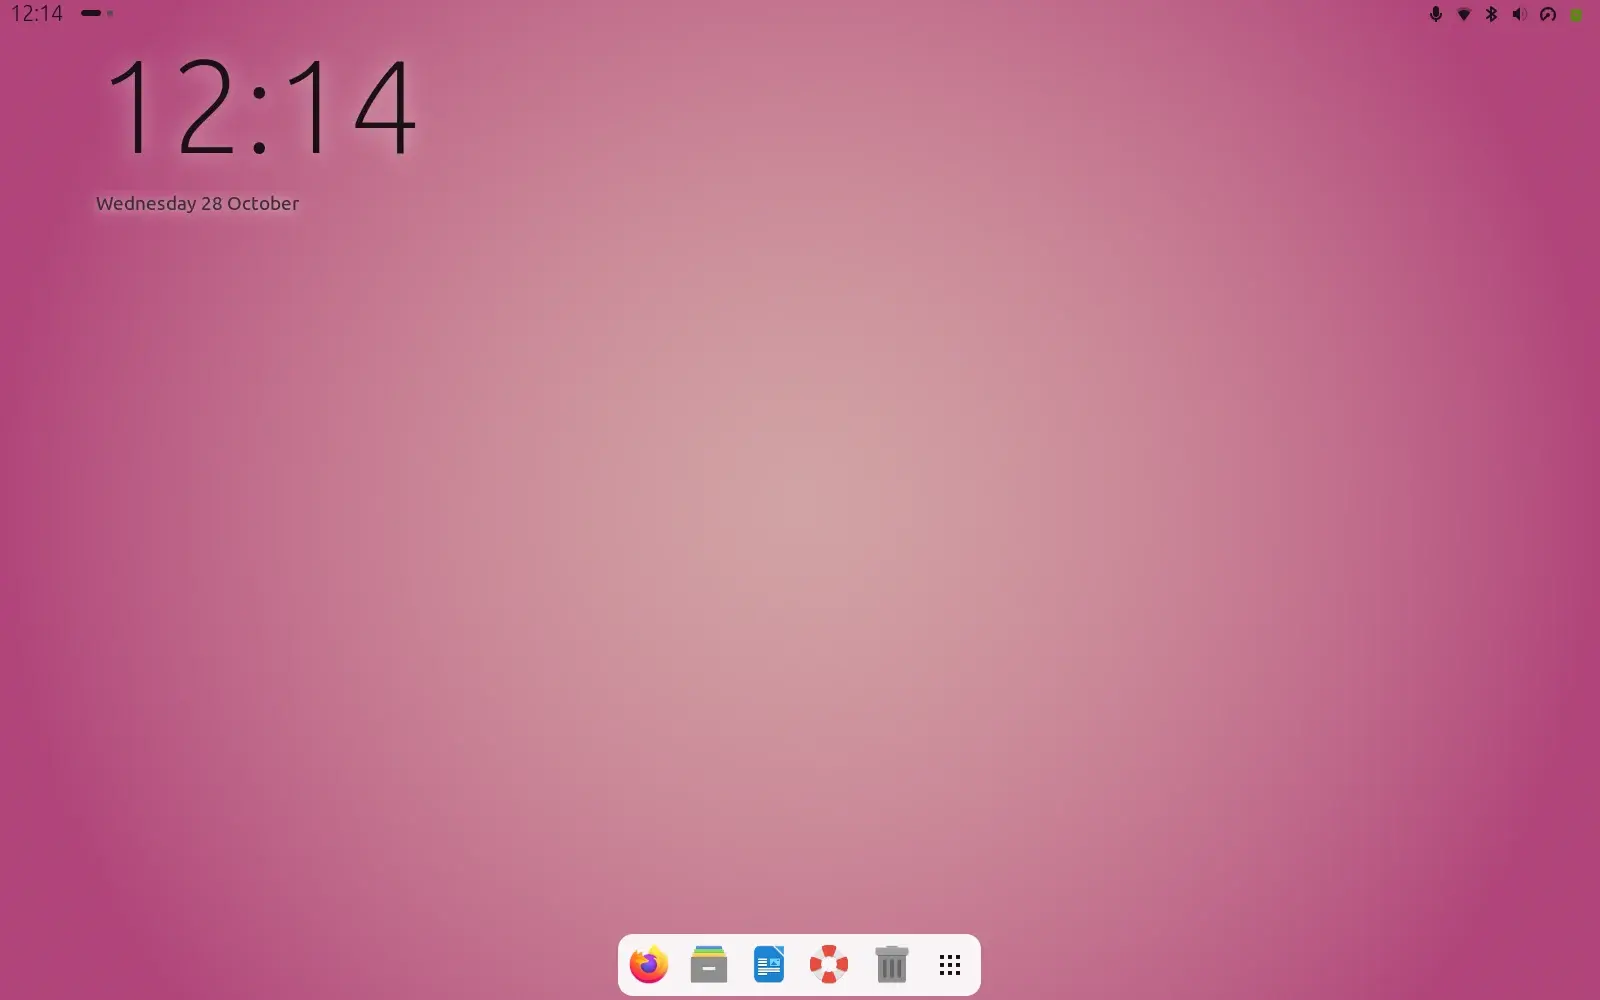
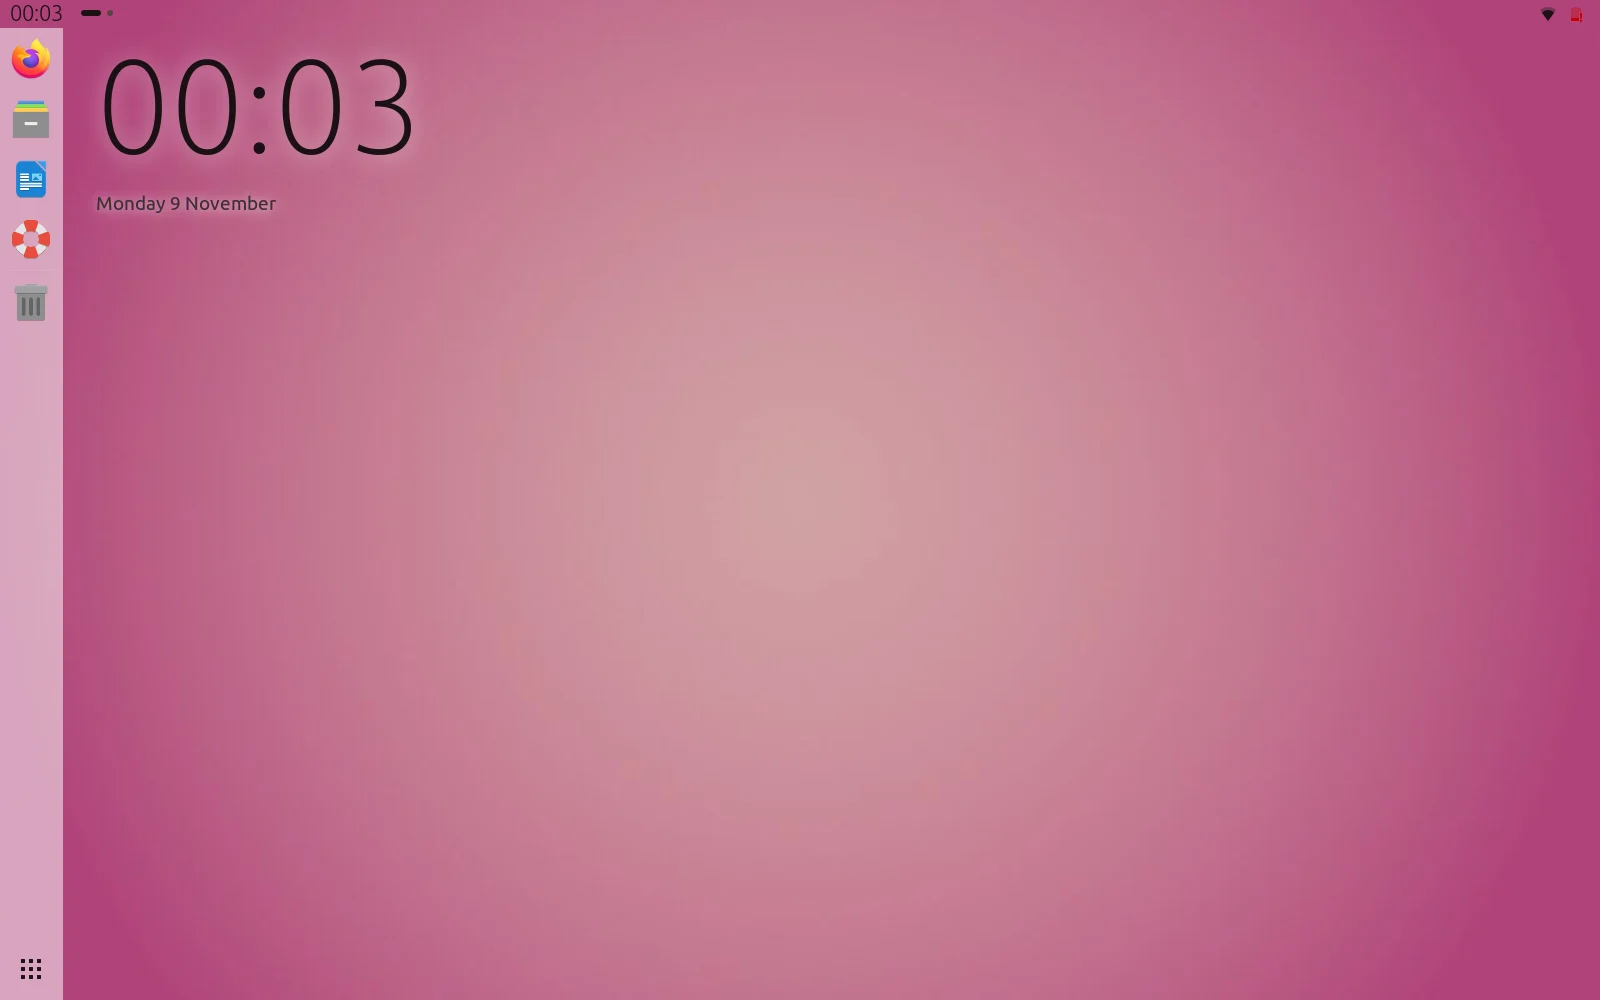
The site shows the dock on the left: the live demo draws a full-height strip in the bar's colours and opacity with a running dot, the copy describes it, and every screenshot is retaken with the side dock; the Wi-Fi name redaction moved to where the tile is now

Changed region(s): [[0.0, 0.0, 0.2812, 1.0], [0.375, 0.93, 0.625, 1.0], [0.9062, 0.0, 1.0, 0.031]]

diff --git a/docs/index.html b/docs/index.html
@@ -52,7 +52,7 @@
           <div class="sl">Volume <u style="--v:38%"></u></div>
           <div class="sl">Brightness <u style="--v:74%"></u></div>
         </div>
-        <div class="dock"><i></i><i></i><i></i><i></i><i></i></div>
+        <div class="dock"><i></i><i class="run"></i><i></i><i></i><i></i></div>
       </div>
       <div class="pick" id="pick" role="group" aria-label="Choose a wallpaper"></div>
       <p class="note">Pick a wallpaper, or use your own picture. It is read in your browser and never uploaded. The page you are looking at is recoloured by the same palette code the extension runs.</p>
@@ -70,7 +70,7 @@
     </div>
     <div class="grid g3">
       <article class="card"><img class="shot" src="media/quick-dusk.webp" alt="The quick settings card on the dusk wallpaper" width="1600" height="1000" loading="lazy"><h3>The strip and quick settings</h3><p>A transparent 28 px strip with the time, workspace dots and the app in front. Its text is dark or light, whichever reads better on the top of your wallpaper, and a soft veil appears only when neither does.</p><p>The quick settings card, menus, calendar and dialogs are cards tinted with the wallpaper's hue.</p></article>
-      <article class="card"><img class="shot" src="media/overview-night.webp" alt="The overview on the night wallpaper" width="1600" height="1000" loading="lazy"><h3>Overview, search and the dock</h3><p>The overview, search, notifications and the dock all sit on the same card colour. The dock is a floating pill that hides when windows get in its way, and Isobar carries its settings with it.</p></article>
+      <article class="card"><img class="shot" src="media/overview-night.webp" alt="The overview on the night wallpaper" width="1600" height="1000" loading="lazy"><h3>Overview, search and the dock</h3><p>The overview, search and notifications sit on the same card colour. The dock runs down the left side, top to bottom, in the bar's colours and opacity, with the accent for the dot under a running app and for hover. Isobar carries its settings with it.</p></article>
       <article class="card"><img class="shot" src="media/app-mist.webp" alt="GNOME Calculator restyled by Isobar" width="1600" height="1000" loading="lazy"><h3>Your apps</h3><p>GNOME's own apps (Files, Settings, Calculator, Text Editor and the rest of the libadwaita family) get the wallpaper's colours and Isobar's shape language: soft radii, flat headers, round controls and thin sliders. Light and dark switch live, even in open windows.</p></article>
     </div>
   </section>
@@ -81,7 +81,7 @@
       <article class="card"><h3>Icons and pointer</h3><p>If you use Papirus, it swaps between Papirus-Light and Papirus-Dark with the scheme. The pointer goes DMZ-Black on light and DMZ-White on dark. Any other icon or cursor theme is left alone.</p></article>
       <article class="card"><h3>No grey flash</h3><p>GNOME paints a stock grey while it starts. On Ubuntu that colour is a setting, so Isobar keeps it at your wallpaper's average and the desktop fades in from a matching tone.</p></article>
       <article class="card"><h3>Light or dark, automatically</h3><p>Change the wallpaper and GNOME's light/dark preference follows its brightness, so GTK and libadwaita apps flip with it.</p></article>
-      <article class="card"><h3>The dock comes along</h3><p>Position, hiding, icon size and opacity are part of Isobar. It remembers what you had, restores it when you switch Isobar off, and reads overrides from <code>~/.config/isobar/dock.json</code>.</p></article>
+      <article class="card"><h3>The dock comes along</h3><p>Isobar puts the dock on the left, top to bottom, always there and on the left-most screen, as see-through as the bar and in its colours. It remembers what you had, restores it when you switch Isobar off, and reads overrides from <code>~/.config/isobar/dock.json</code>.</p></article>
       <article class="card"><h3>Login screen</h3><p>An optional login theme built from Ubuntu's own, with your wallpaper darkened and blurred, no Ubuntu logo and a soft name card. It is installed as an alternative, so Ubuntu's stays one command away.</p></article>
       <article class="card"><h3>Coucou</h3><p>If you run Coucou, its island can wear the card colour too. It is opt-in, writes one setting and restarts Coucou once when the colour changes.</p></article>
     </div>

diff --git a/docs/index.template.html b/docs/index.template.html
@@ -48,7 +48,7 @@
           <div class="sl">Volume <u style="--v:38%"></u></div>
           <div class="sl">Brightness <u style="--v:74%"></u></div>
         </div>
-        <div class="dock"><i></i><i></i><i></i><i></i><i></i></div>
+        <div class="dock"><i></i><i class="run"></i><i></i><i></i><i></i></div>
       </div>
       <div class="pick" id="pick" role="group" aria-label="Choose a wallpaper"></div>
       <p class="note">Pick a wallpaper, or use your own picture. It is read in your browser and never uploaded. The page you are looking at is recoloured by the same palette code the extension runs.</p>
@@ -66,7 +66,7 @@
     </div>
     <div class="grid g3">
       <article class="card"><img class="shot" src="media/quick-dusk.webp" alt="The quick settings card on the dusk wallpaper" width="1600" height="1000" loading="lazy"><h3>The strip and quick settings</h3><p>A transparent 28 px strip with the time, workspace dots and the app in front. Its text is dark or light, whichever reads better on the top of your wallpaper, and a soft veil appears only when neither does.</p><p>The quick settings card, menus, calendar and dialogs are cards tinted with the wallpaper's hue.</p></article>
-      <article class="card"><img class="shot" src="media/overview-night.webp" alt="The overview on the night wallpaper" width="1600" height="1000" loading="lazy"><h3>Overview, search and the dock</h3><p>The overview, search, notifications and the dock all sit on the same card colour. The dock is a floating pill that hides when windows get in its way, and Isobar carries its settings with it.</p></article>
+      <article class="card"><img class="shot" src="media/overview-night.webp" alt="The overview on the night wallpaper" width="1600" height="1000" loading="lazy"><h3>Overview, search and the dock</h3><p>The overview, search and notifications sit on the same card colour. The dock runs down the left side, top to bottom, in the bar's colours and opacity, with the accent for the dot under a running app and for hover. Isobar carries its settings with it.</p></article>
       <article class="card"><img class="shot" src="media/app-mist.webp" alt="GNOME Calculator restyled by Isobar" width="1600" height="1000" loading="lazy"><h3>Your apps</h3><p>GNOME's own apps (Files, Settings, Calculator, Text Editor and the rest of the libadwaita family) get the wallpaper's colours and Isobar's shape language: soft radii, flat headers, round controls and thin sliders. Light and dark switch live, even in open windows.</p></article>
     </div>
   </section>
@@ -77,7 +77,7 @@
       <article class="card"><h3>Icons and pointer</h3><p>If you use Papirus, it swaps between Papirus-Light and Papirus-Dark with the scheme. The pointer goes DMZ-Black on light and DMZ-White on dark. Any other icon or cursor theme is left alone.</p></article>
       <article class="card"><h3>No grey flash</h3><p>GNOME paints a stock grey while it starts. On Ubuntu that colour is a setting, so Isobar keeps it at your wallpaper's average and the desktop fades in from a matching tone.</p></article>
       <article class="card"><h3>Light or dark, automatically</h3><p>Change the wallpaper and GNOME's light/dark preference follows its brightness, so GTK and libadwaita apps flip with it.</p></article>
-      <article class="card"><h3>The dock comes along</h3><p>Position, hiding, icon size and opacity are part of Isobar. It remembers what you had, restores it when you switch Isobar off, and reads overrides from <code>~/.config/isobar/dock.json</code>.</p></article>
+      <article class="card"><h3>The dock comes along</h3><p>Isobar puts the dock on the left, top to bottom, always there and on the left-most screen, as see-through as the bar and in its colours. It remembers what you had, restores it when you switch Isobar off, and reads overrides from <code>~/.config/isobar/dock.json</code>.</p></article>
       <article class="card"><h3>Login screen</h3><p>An optional login theme built from Ubuntu's own, with your wallpaper darkened and blurred, no Ubuntu logo and a soft name card. It is installed as an alternative, so Ubuntu's stays one command away.</p></article>
       <article class="card"><h3>Coucou</h3><p>If you run Coucou, its island can wear the card colour too. It is opt-in, writes one setting and restarts Coucou once when the colour changes.</p></article>
     </div>

diff --git a/docs/style.css b/docs/style.css
@@ -44,7 +44,7 @@ a:hover { text-decoration-thickness: 2px; }
 .strip .l, .strip .r { display: flex; align-items: center; gap: 1.4cqw; }
 .strip .t { font-weight: 300; font-size: 1.9cqw; letter-spacing: -.02em; color: var(--bar-text); }
 .dots { display: flex; align-items: center; gap: .5cqw; } .dots i { width: .55cqw; height: .55cqw; border-radius: 50%; background: var(--bar-muted); opacity: .6; } .dots i.on { width: 1.8cqw; border-radius: .4cqw; background: var(--bar-text); opacity: 1; }
-.desk .big { position: absolute; left: 5.2cqw; top: 6.4cqw; color: var(--clock-text); text-shadow: 0 .2cqw 2cqw var(--clock-shadow); }
+.desk .big { position: absolute; left: 9.4cqw; top: 6.4cqw; color: var(--clock-text); text-shadow: 0 .2cqw 2cqw var(--clock-shadow); }
 .desk .big b { display: block; font-weight: 200; font-size: 11.6cqw; line-height: 1; letter-spacing: -.045em; }
 .desk .big span { display: block; font-size: 1.6cqw; font-weight: 500; color: var(--clock-muted); margin: .6cqw 0 0 .5cqw; }
 .desk .qs { position: absolute; right: 1.6cqw; top: 5cqw; width: 29cqw; background: var(--surface); color: var(--text); border-radius: 2.4cqw; padding: 2.1cqw; box-shadow: 0 2cqw 5cqw -2cqw rgba(0,0,0,.5), 0 0 0 1px var(--line); z-index: 2; }
@@ -54,8 +54,9 @@ a:hover { text-decoration-thickness: 2px; }
 .qs .tile.on { background: var(--text); color: var(--surface); } .qs .tile.on small { color: color-mix(in oklab, var(--surface) 70%, var(--text)); }
 .qs .sl { display: flex; align-items: center; gap: 1cqw; margin-top: 1.4cqw; font-size: 1cqw; color: var(--muted); }
 .qs .sl u { flex: 1; height: .5cqw; border-radius: .3cqw; background: var(--line); position: relative; text-decoration: none; } .qs .sl u::before { content: ""; position: absolute; inset: 0 auto 0 0; width: var(--v); background: var(--text); border-radius: inherit; } .qs .sl u::after { content: ""; position: absolute; left: calc(var(--v) - .8cqw); top: 50%; width: 1.6cqw; height: 1.6cqw; margin-top: -.8cqw; border-radius: 50%; background: var(--text); }
-.desk .dock { position: absolute; left: 50%; bottom: 1.8cqw; transform: translateX(-50%); display: flex; gap: 1.1cqw; padding: 1cqw 1.4cqw; background: var(--surface); border-radius: 2.4cqw; box-shadow: 0 1cqw 3cqw -1cqw rgba(0,0,0,.5), 0 0 0 1px var(--line); z-index: 2; }
-.dock i { width: 3.6cqw; height: 3.6cqw; border-radius: 1cqw; background: color-mix(in oklab, var(--accent) var(--m), var(--surface)); }
+.desk .dock { position: absolute; left: 0; top: 4.2cqw; bottom: 0; width: 5.2cqw; display: flex; flex-direction: column; align-items: center; gap: 1.5cqw; padding: 1.6cqw 0; background: var(--dock); z-index: 2; }
+.dock i { position: relative; width: 3cqw; height: 3cqw; border-radius: .9cqw; background: color-mix(in oklab, var(--accent-bg) var(--m), var(--dock-card)); }
+.dock i.run::before { content: ""; position: absolute; left: -.85cqw; top: 50%; width: .45cqw; height: .45cqw; margin-top: -.22cqw; border-radius: 50%; background: var(--accent-bg); }
 .dock i:nth-child(1) { --m: 100%; } .dock i:nth-child(2) { --m: 74%; } .dock i:nth-child(3) { --m: 52%; } .dock i:nth-child(4) { --m: 36%; } .dock i:nth-child(5) { --m: 22%; }
 .pick { display: flex; flex-wrap: wrap; gap: 12px; align-items: center; }
 .pick button.wp { width: 92px; height: 58px; border-radius: 14px; border: 2px solid transparent; background: center / cover; cursor: pointer; outline-offset: 3px; box-shadow: 0 0 0 1px color-mix(in oklab, var(--text) 14%, transparent); }

diff --git a/docs/site.js b/docs/site.js
@@ -35,6 +35,7 @@ function apply(p) {
   const set = (k, v) => root.style.setProperty(k, v);
   set('--surface', p.ink); set('--text', p.paper); set('--muted', p.muted); set('--track', p.track); set('--line', p.hover);
   set('--card', p.card); set('--accent', p.accent.text); set('--accent-bg', p.accent.bg);
+  set('--dock-card', p.dock.card); set('--dock', alpha(p.dock.card, p.bar.veil || 0.55));   // the dock wears the bar's colours and opacity
   set('--bar-text', p.bar.text); set('--bar-muted', p.bar.muted); set('--bar-veil', p.bar.veil ? alpha(p.bar.veilColor, p.bar.veil) : 'transparent');
   set('--clock-text', p.clock.text); set('--clock-muted', p.clock.muted); set('--clock-shadow', p.clock.shadow);
   document.querySelector('meta[name="theme-color"]').content = p.ink;

diff --git a/tools/make_media.py b/tools/make_media.py
@@ -7,12 +7,12 @@ out.mkdir(parents=True, exist_ok=True)
 sh = lambda *a: subprocess.run(a, check=True, capture_output=True, text=True).stdout.strip()
 
 def redact_wifi(png):
-    """The quick settings tile shows the host's network name; replace it. Positions are for the 1600x1000 shots."""
-    bg = sh('magick', png, '-format', '%[pixel:p{1300,228}]', 'info:')
-    colours = sh('magick', png, '-crop', '40x14+1251+191', '+repage', '-colors', '2', '-unique-colors', 'txt:-').splitlines()[1:]
+    """The quick settings tile shows the host's network name; replace it. Positions are for the 1600x1000 shots (the Wi-Fi tile's subtitle sits at about x 1252-1341, y 129-144)."""
+    bg = sh('magick', png, '-format', '%[pixel:p{1300,148}]', 'info:')
+    colours = sh('magick', png, '-crop', '40x14+1251+129', '+repage', '-colors', '2', '-unique-colors', 'txt:-').splitlines()[1:]
     light = max(colours, key=lambda l: sum(int(x) for x in l.split('(')[1].split(')')[0].split(',')[:3]))
     fg = light.split()[2] if light.split()[2].startswith('#') else '#cfd6dc'
-    sh('magick', png, '-fill', bg, '-draw', 'rectangle 1249,207 1344,226', '-fill', fg, '-font', 'Inter', '-pointsize', '12', '-annotate', '+1251+220', 'Home', png)
+    sh('magick', png, '-fill', bg, '-draw', 'rectangle 1249,127 1344,146', '-fill', fg, '-font', 'Inter', '-pointsize', '12', '-annotate', '+1251+141', 'Home', png)
 
 def webp(png, name, q=86, crop=None):
     cmd = ['magick', str(png)] + (['-crop', crop, '+repage'] if crop else []) + ['-strip', '-quality', str(q), str(out / name)]

diff --git a/README.md b/README.md
@@ -23,7 +23,7 @@
 </p>
 
 <p align="center">
-  <img alt="Isobar on a pink wallpaper: a slim strip, a big clock, the quick settings card and a floating dock, all in the wallpaper's colours" src="docs/media/quick-dusk.webp" width="900">
+  <img alt="Isobar on a pink wallpaper: a slim strip, a big clock, the quick settings card and a dock down the left side, all in the wallpaper's colours" src="docs/media/quick-dusk.webp" width="900">
 </p>
 
 Isobar is an extension for GNOME Shell 50. It reads your wallpaper, works out a palette from it, and restyles the shell, GNOME's own apps, the icons, the pointer, the dock and even the terminal logo to match. Change the wallpaper, or switch light and dark, and everything follows within a second.
